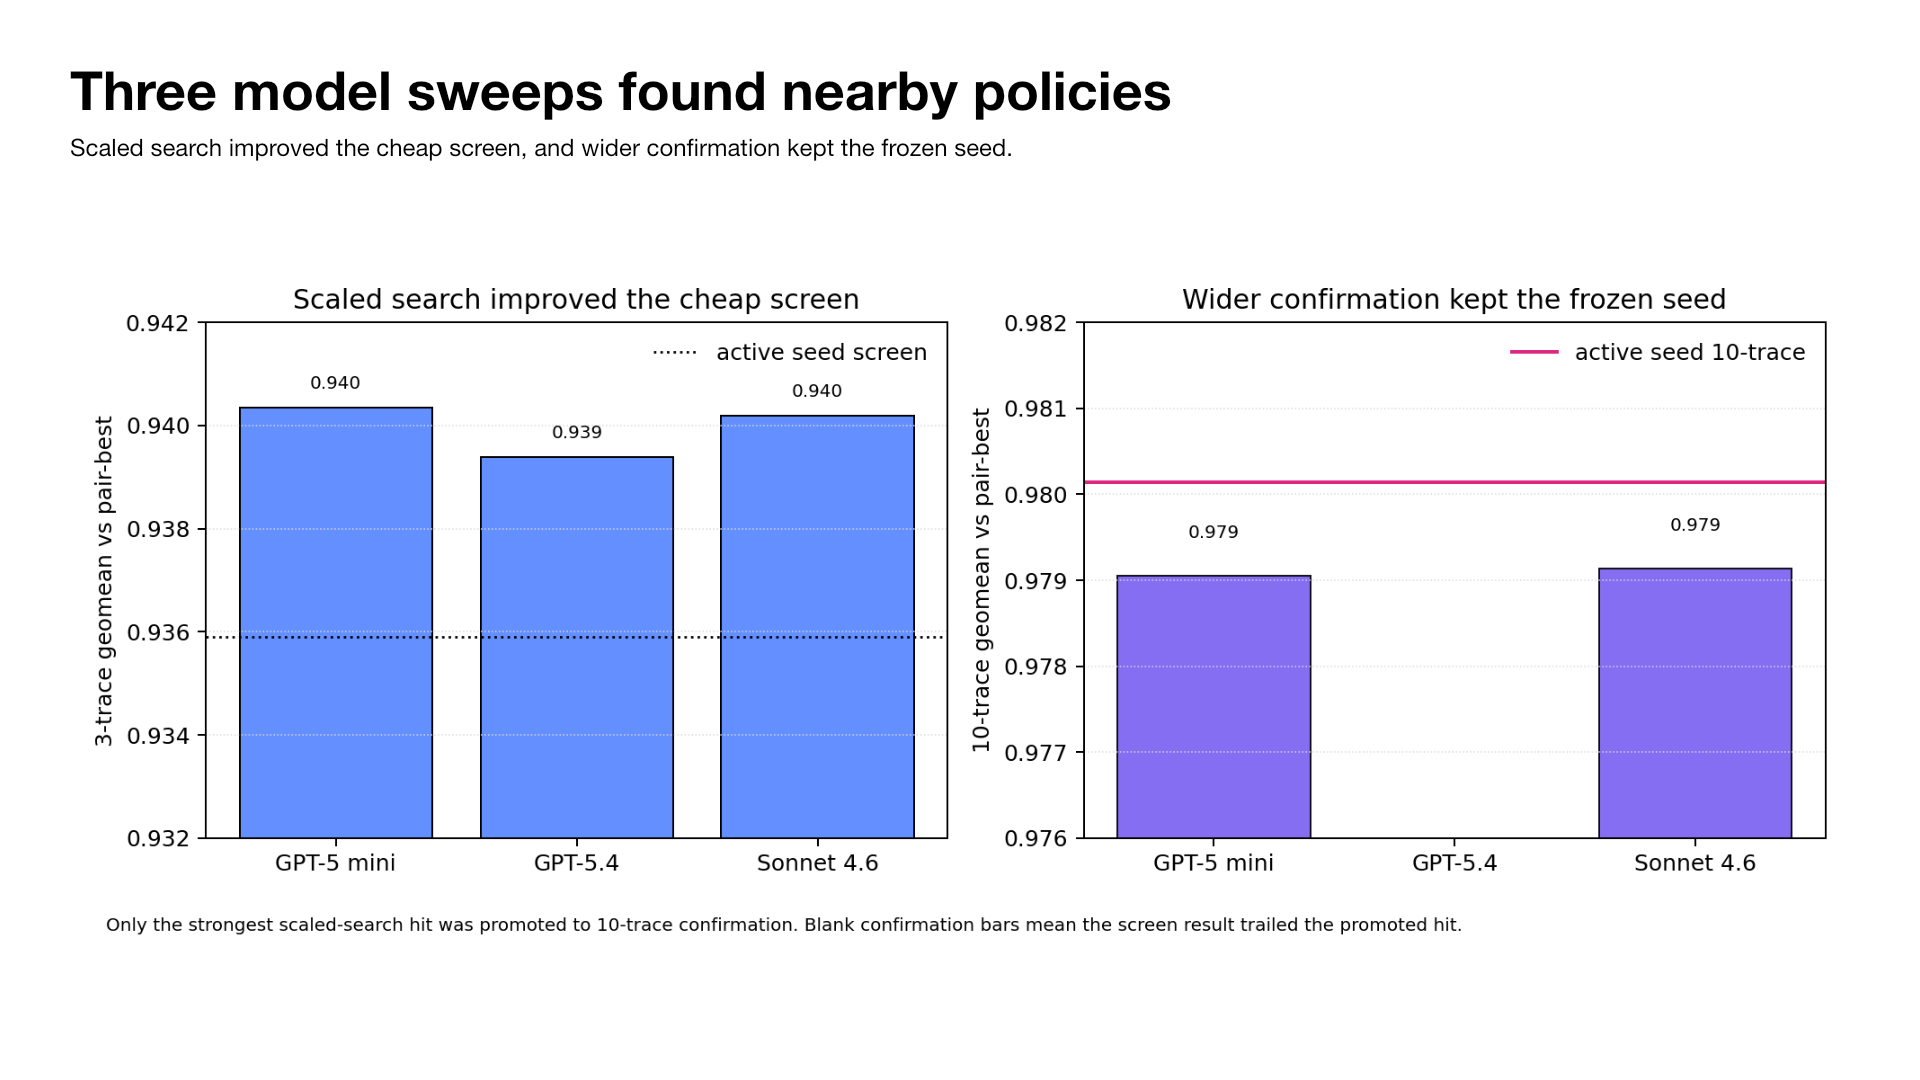
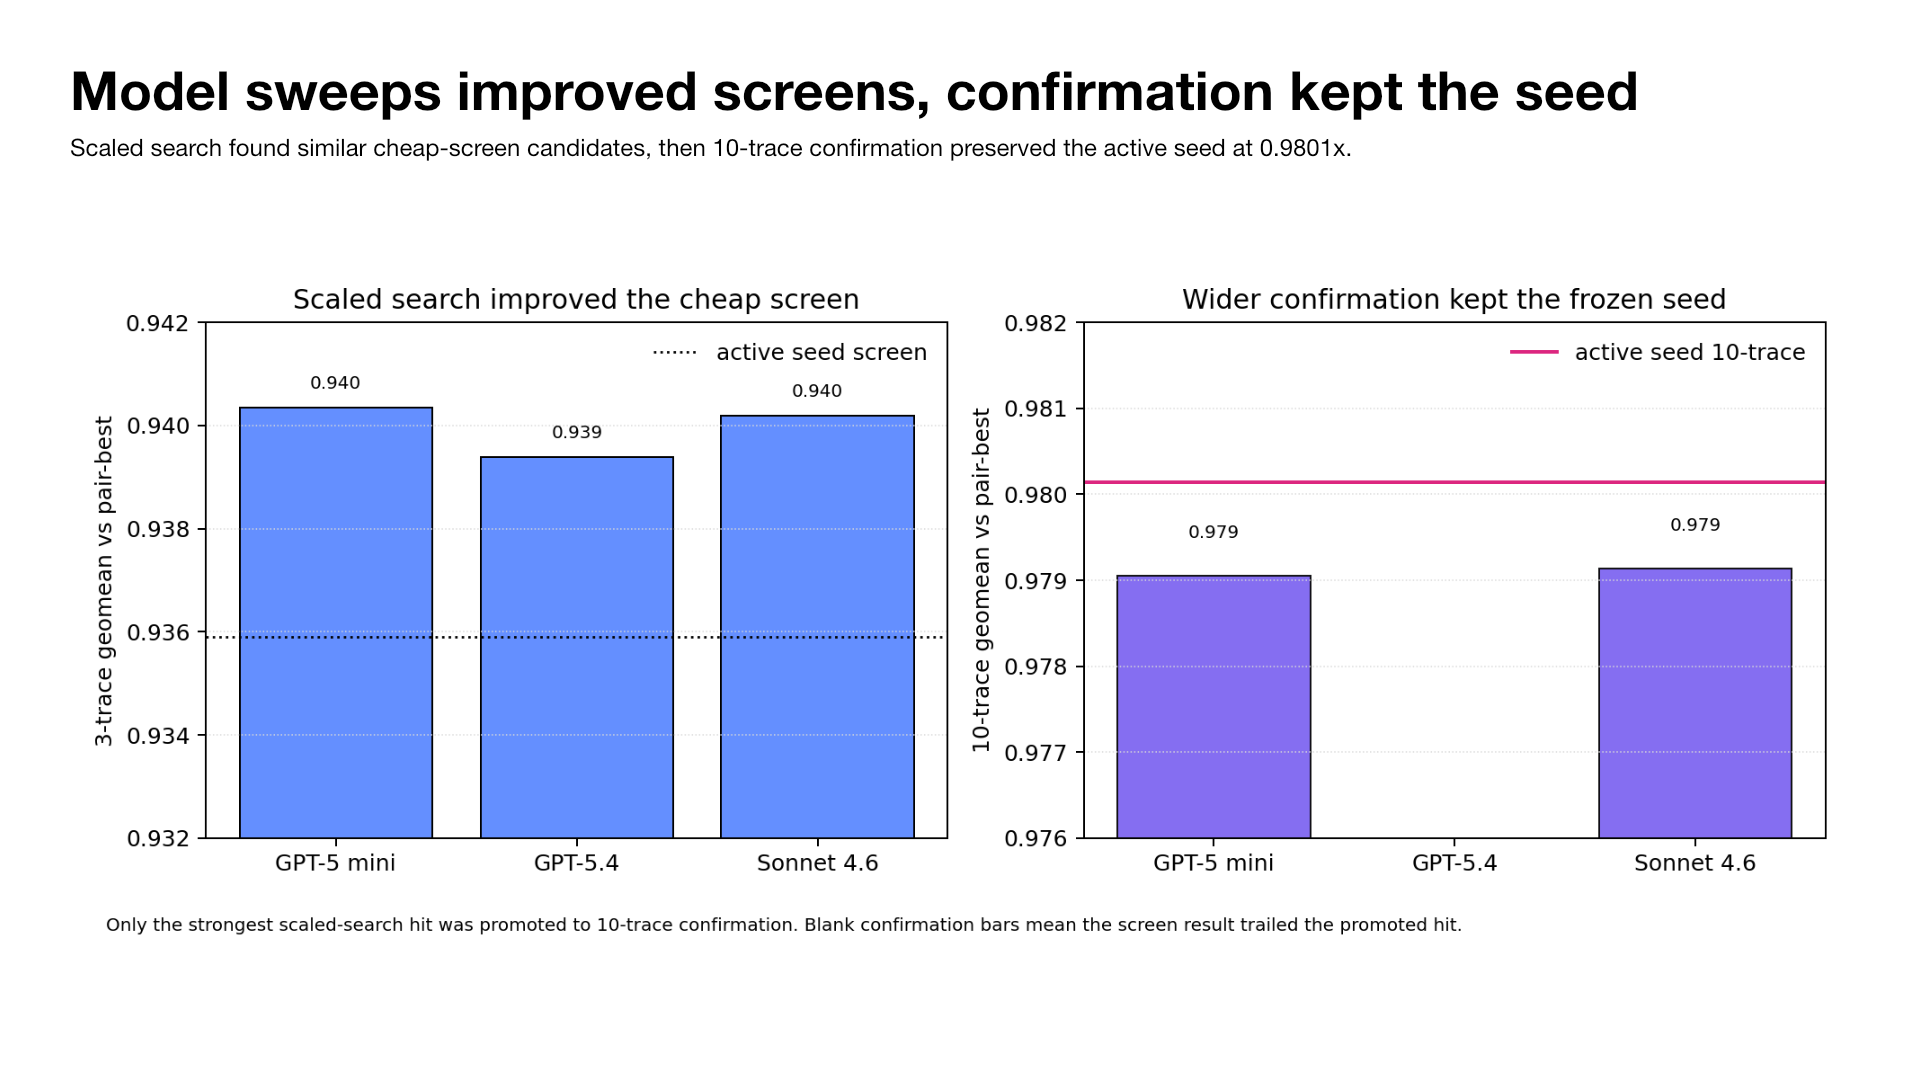
Polish Stage 2 professor-facing report

Changed region(s): [[0.0312, 0.0611, 0.875, 0.1528]]

diff --git a/scripts/make_stage2_final_assets.py b/scripts/make_stage2_final_assets.py
@@ -187,6 +187,12 @@ def ledger_record_for_hash(ledger_path: Path, code_hash: str, stage: str) -> dic
     return matches[-1]
 
 
+def required_ledger_record_for_hash(ledger_path: Path, code_hash: str, stage: str) -> dict:
+    record = ledger_record_for_hash(ledger_path, code_hash, stage)
+    assert record is not None, f"Missing {stage} record for {code_hash} in {ledger_path}"
+    return record
+
+
 def ledger_record_for_metrics(ledger_path: Path, metrics: dict, stage: str) -> dict | None:
     records = [json.loads(line) for line in ledger_path.read_text().splitlines() if line.strip()]
     candidates = [r for r in records if r.get("stage") == stage and r.get("metrics", {}).get("stage_passed") == 1.0]
@@ -431,7 +437,12 @@ def plot_model_comparison(ledger_path: Path, out_path: Path) -> None:
     plt.close(fig)
 
 
-def plot_scale_model_comparison(rows: list[dict[str, str]], out_path: Path) -> None:
+def plot_scale_model_comparison(
+    rows: list[dict[str, str]],
+    out_path: Path,
+    active_screen_pair_best: float,
+    active_confirm_pair_best: float,
+) -> None:
     setup_plot()
     labels = [row["model"] for row in rows]
     screen = [float(row["screen_gm_vs_pair_best"]) for row in rows]
@@ -439,11 +450,10 @@ def plot_scale_model_comparison(rows: list[dict[str, str]], out_path: Path) -> N
         float(row["confirmed_10_trace_pair_best"]) if row["confirmed_10_trace_pair_best"] else float("nan")
         for row in rows
     ]
-    active_stage2 = 0.9801372167719825
     fig, axes = plt.subplots(1, 2, figsize=(11, 4.2))
     x = list(range(len(labels)))
     axes[0].bar(x, screen, color=COLORS["blue"], edgecolor=COLORS["black"], linewidth=0.8)
-    axes[0].axhline(0.9358978060739194, color=COLORS["black"], linestyle=":", linewidth=1.1, label="active seed screen")
+    axes[0].axhline(active_screen_pair_best, color=COLORS["black"], linestyle=":", linewidth=1.1, label="active seed screen")
     axes[0].set_title("Scaled search improved the cheap screen")
     axes[0].set_ylabel("3-trace geomean vs pair-best")
     axes[0].set_ylim(0.932, 0.942)
@@ -461,7 +471,7 @@ def plot_scale_model_comparison(rows: list[dict[str, str]], out_path: Path) -> N
         )
         if not math.isnan(value):
             axes[1].text(xi, value + 0.0004, f"{value:.3f}", ha="center", va="bottom", fontsize=8)
-    axes[1].axhline(active_stage2, color=COLORS["pink"], linewidth=1.6, label="active seed 10-trace")
+    axes[1].axhline(active_confirm_pair_best, color=COLORS["pink"], linewidth=1.6, label="active seed 10-trace")
     axes[1].set_title("Wider confirmation kept the frozen seed")
     axes[1].set_ylabel("10-trace geomean vs pair-best")
     axes[1].set_ylim(0.976, 0.982)
@@ -514,7 +524,14 @@ def main() -> int:
     plot_pre_post(rows, args.figures_dir / "stage2_pre_post_geomean.png")
     plot_heldout_trace_profile(args.heldout_v13, args.figures_dir / "stage2_heldout_trace_profile.png")
     plot_model_comparison(args.model_ledger, args.figures_dir / "stage2_model_comparison.png")
-    plot_scale_model_comparison(scale_rows, args.figures_dir / "stage2_scale_model_comparison.png")
+    active_screen = required_ledger_record_for_hash(args.candidate_ledger, "a52ed8a4151ad6cc", "stage1")
+    active_confirm = required_ledger_record_for_hash(args.candidate_ledger, "a52ed8a4151ad6cc", "stage2")
+    plot_scale_model_comparison(
+        scale_rows,
+        args.figures_dir / "stage2_scale_model_comparison.png",
+        float(active_screen["metrics"]["gm_vs_pair_best"]),
+        float(active_confirm["metrics"]["gm_vs_pair_best"]),
+    )
     return 0
 
 

diff --git a/report/stage2_final_report.md b/report/stage2_final_report.md
@@ -2,15 +2,15 @@
 
 ## Executive Read
 
-We built a compact Mixture-of-Prefetchers coordinator on top of Athena's L2C prefetcher infrastructure, then used OpenEvolve to search a tiny policy surface. The selected story is `MLOP + SPP+PPF` at L2C, with `MoP-V1.3` as the evolved sticky-single router.
+We built a compact Mixture-of-Prefetchers coordinator on top of Athena's L2C prefetcher infrastructure, then used OpenEvolve to search a tiny policy surface. The selected story is `MLOP + SPP+PPF` at L2C, with `MoP-V1.3` as the evolved sticky-single router. The work beyond Athena is the routing layer, the train/heldout protocol, the OpenEvolve policy sandbox, the candidate ledger, and the report pipeline that turns simulator artifacts into tables, plots, and a presentation deck.
 
 The strongest claim is train-window gap closing. On the 13-trace train-window confirmation surface, the pre-OpenEvolve `MoP-V1.2` reference reached `0.964637x` vs the pair-best single and `1.047685x` vs no-prefetch. The post-OpenEvolve `MoP-V1.3 sticky 3` seed reached `0.982884x` vs pair-best and `1.066243x` vs no-prefetch. It also beat the weaker expert on `11/13` traces, compared with `9/13` for `MoP-V1.2`, and reduced catastrophic traces from `3/13` to `2/13`.
 
-The heldout result is a modest generalization result. On seven heldout traces, `MoP-V1.3` reached `0.979437x` vs pair-best and `1.003270x` vs no-prefetch. `MoP-V1.2` reached `0.975893x` vs pair-best and `0.998069x` vs no-prefetch. The selected router clears no-prefetch on heldout and remains below the best constituent single, which is a fair outcome for this project because the main comparator hierarchy kept pair-best first.
+The heldout result is a modest generalization result. On seven heldout traces, `MoP-V1.3` reached `0.979437x` vs pair-best and `1.003270x` vs no-prefetch. `MoP-V1.2` reached `0.975893x` vs pair-best and `0.998069x` vs no-prefetch. The selected router clears no-prefetch on heldout and remains below the best constituent single, which is a fair outcome for this project because the main comparator hierarchy kept pair-best first. The trace-level story is mixed: `MoP-V1.3` improves the large `secret_compute_fp_105` tail loss from `0.8217x` to `0.8896x` vs pair-best, while its weaker-expert win count is `5/7` and its closer-to-better count is `3/7`.
 
 ## What We Built On Athena
 
-Athena provided the simulator, cache hierarchy, existing prefetchers, and the original `AthenaMAB` comparison point. Our contribution is the coordination layer and the evaluation harness around it.
+Athena provided the simulator, cache hierarchy, existing prefetchers, and the original `AthenaMAB` comparison point. Our contribution sits above that substrate: a router family that chooses or budgets constituent L2C prefetchers, epoch-level action and usefulness accounting, a fixed trace protocol, OpenEvolve candidate generation under a narrow policy API, and artifact tooling that makes the resulting claims auditable.
 
 We added router aliases and implementation paths for:
 
@@ -41,6 +41,8 @@ The important policy that survived confirmation is:
 
 Stage 1 selected L2C as the cache level and `MLOP + SPP+PPF` as the expert pair using train/search evidence. Heldout traces stayed reserved for final confirmation. The evidence set used the official split in `data/splits/official_v1.json`: 17 train traces and 7 heldout traces, with 10-trace and 13-trace train/search subsets for OpenEvolve confirmation.
 
+The `official_v1` split is the frozen trace split. Its original recommended-pair metadata predates the Stage 1 finish-screen decision. Stage 2 keeps the trace split fixed and uses the Stage 1 train/search choice of `MLOP + SPP+PPF`.
+
 The evaluation comparator hierarchy stayed fixed:
 
 | Comparator | Purpose |
@@ -50,9 +52,11 @@ The evaluation comparator hierarchy stayed fixed:
 | Weaker constituent single | Practical minimum for routing value |
 | WinnerTakeAll, OneShotFit, AthenaMAB | Simple coordination baselines |
 
-The trace choice supports the story because `MLOP` and `SPP+PPF` have different strengths, while both can still produce useful speedups on parts of the split. On heldout, `SPP+PPF` is the stronger single overall at `1.023725x` vs no-prefetch, while `MLOP` sits at `0.974379x`. The router lands between the routees on several traces and clears no-prefetch in geomean, which is exactly the balanced-take behavior we wanted to test.
+The trace choice supports the story because `MLOP` and `SPP+PPF` have different strengths, while both can still produce useful speedups on parts of the split. On heldout, `SPP+PPF` is the stronger single overall at `1.023725x` vs no-prefetch, while `MLOP` sits at `0.974379x`. The router's geomean lands between no-prefetch and the pair-best single, and the per-trace placement shows useful routing on some traces plus residual tail risk on `secret_compute_fp_105`.
 
 ## Pre-OpenEvolve And Post-OpenEvolve Performance
+
+![Pre/post geomean contrast](figures/stage2_pre_post_geomean.png)
 
 | Surface | Pre-OpenEvolve `MoP-V1.2` | Post-OpenEvolve `MoP-V1.3` | Read |
 | --- | ---: | ---: | --- |
@@ -73,6 +77,8 @@ The 13-trace train-window result also beats the simple coordination baselines:
 | `OneShotFit` | `0.943456` | `1.026820` | `6/13` | `5/13` |
 | `AthenaMAB` | `0.942077` | `1.021295` | `6/13` | `5/13` |
 
+These coordination-baseline comparisons are train-window checks. Heldout confirmation focuses on the frozen pre/post routers and the constituent singles.
+
 Raw ledger excerpt for the selected train-window contrast:
 
 ```json
@@ -85,7 +91,44 @@ Raw ledger excerpt for the selected train-window contrast:
 
 ## OpenEvolve Model Scaling
 
-We used small smoke runs first, then scaled with `gpt-5-mini`, `gpt-5.4`, and Claude Sonnet 4.6. Kimi models were absent from the gateway model list for this key, so the expanded comparison used the strongest available gateway models. The largest sweep was the 80-iteration GPT-5 mini run, with 30-iteration sweeps for GPT-5.4 and Sonnet 4.6.
+![Scaled model comparison](figures/stage2_scale_model_comparison.png)
+
+We used small smoke runs first, then scaled with `gpt-5-mini`, `gpt-5.4`, and Claude Sonnet 4.6. A gateway model probe on April 29, 2026 found GPT-5 and Anthropic models available for this key, while Kimi models were absent from that response. The largest sweep was the 80-iteration GPT-5 mini run, with 30-iteration sweeps for GPT-5.4 and Sonnet 4.6. The committed configs keep `max_iterations: 1` as a cheap default, and the actual scale runs used explicit CLI overrides:
+
+```bash
+PYTHONPATH=external/openevolve STAGE2_EVAL_STAGE=stage1 \
+  python3 external/openevolve/openevolve-run.py \
+  stage2/openevolve/initial_policy.py stage2/openevolve/evaluator.py \
+  --config stage2/openevolve/config_scale_gpt5mini.yaml \
+  --output results/stage2_openevolve/scale/gpt5mini_stage1_iter80_20260430 \
+  --iterations 80
+```
+
+```bash
+PYTHONPATH=external/openevolve STAGE2_EVAL_STAGE=stage1 \
+  python3 external/openevolve/openevolve-run.py \
+  stage2/openevolve/initial_policy.py stage2/openevolve/evaluator.py \
+  --config stage2/openevolve/config_scale_gpt54.yaml \
+  --output results/stage2_openevolve/scale/gpt54_stage1_iter30_20260430 \
+  --iterations 30
+```
+
+```bash
+PYTHONPATH=external/openevolve STAGE2_EVAL_STAGE=stage1 \
+  python3 external/openevolve/openevolve-run.py \
+  stage2/openevolve/initial_policy.py stage2/openevolve/evaluator.py \
+  --config stage2/openevolve/config_scale_claude_sonnet46.yaml \
+  --output results/stage2_openevolve/scale/claude_sonnet46_stage1_iter30_20260430 \
+  --iterations 30
+```
+
+The local logs record:
+
+```text
+gpt5mini: Starting process-based evolution from iteration 1 for 80 iterations (total: 81)
+gpt54: Starting process-based evolution from iteration 1 for 30 iterations (total: 31)
+sonnet46: Starting process-based evolution from iteration 1 for 30 iterations (total: 31)
+```
 
 | Model | Best cheap-screen result | 10-trace confirmation |
 | --- | ---: | ---: |
@@ -95,13 +138,35 @@ We used small smoke runs first, then scaled with `gpt-5-mini`, `gpt-5.4`, and Cl
 
 The scaled model search found nearby policies with slightly stronger cheap-screen scores, especially Sonnet 4.6. Wider confirmation kept the frozen `MoP-V1.3 sticky 3` seed because its 10-trace result remained stronger at `0.980137x` vs pair-best and combined `0.001776`.
 
+Selection used confirmation status plus cheap-screen rank. A higher 10-trace hit, `53e5b8b728c0a657`, reached `0.982001x` vs pair-best and combined `0.004400`, then failed 13-trace confirmation. The frozen `a52ed8a4151ad6cc` seed reached `0.980137x` on the 10-trace surface and `0.982884x` on the 13-trace train-window confirmation surface.
+
 The malformed and failed candidates are useful evidence about evaluator rigor. The ledger includes command failures from simulator `SIGBUS`, rejected helper/import code, unknown policy keys such as `both_on_rate`, `single_action_rate`, `mop_budget_ratio`, and `mop_budget_multiplier`, and missing evolve markers. These candidates were scored as failed and kept in the ledger.
 
 ## Heldout Handling
 
+![Heldout trace profile](figures/stage2_heldout_trace_profile.png)
+
 The `MoP-V1.3` heldout run completed normally in `results/stage2_openevolve/heldout/final_v13_20260429`. The matching `MoP-V1.2` reference completed all 28 raw metric files in `results/stage2_openevolve/heldout/final_v12_reference_20260429`, while the runner exited before writing the full roll-up. I rebuilt its `summary.csv` from the 28 raw metric JSON files using `scripts/rebuild_mop_summary_from_metrics.py`, which calls the same parser and summary writer used by the normal runner. The provenance file is `results/stage2_openevolve/heldout/final_v12_reference_20260429/summary_rebuild_provenance.json`.
 
 That reconstruction changes no metrics. It supplies the missing table layer from complete raw simulator outputs.
+
+Rebuild command:
+
+```bash
+python3 scripts/rebuild_mop_summary_from_metrics.py \
+  --results-dir results/stage2_openevolve/heldout/final_v12_reference_20260429 \
+  --expert-0 MLOP \
+  --expert-1 SPP+PPF \
+  --expected-runs 28
+```
+
+Validation excerpt:
+
+```json
+{"metric_files": 28, "source": "rebuild_mop_summary_from_metrics.py", "traces": ["437.leslie3d-134B", "459.GemsFDTD-1169B", "471.omnetpp-188B", "ligra_BC.com-lj.ungraph.gcc_6.3.0_O3.drop_500M.length_250M", "parsec_2.1.canneal.simlarge.prebuilt.drop_4750M.length_250M", "parsec_2.1.streamcluster.simlarge.prebuilt.drop_0M.length_250M", "secret_compute_fp_105"]}
+```
+
+The reconstructed V1.2 heldout `summary.csv` has SHA-256 prefix `9660fd425d4b5dc4`. The normal V1.3 heldout `summary.csv` has SHA-256 prefix `579caecda79b4cae`. The generated final metric table has SHA-256 prefix `d49332f21ba00979`.
 
 ## Claims We Can Defend
 
@@ -115,6 +180,8 @@ That reconstruction changes no metrics. It supplies the missing table layer from
 The most likely reviewer concern is selection leakage. The trace protocol answers it directly: Stage 1 selected the cache level and pair on train/search evidence, Stage 2 searched only train/search surfaces, and heldout was used after the seed was fixed. The next concern is whether OpenEvolve merely found a fragile number tweak. The evaluator answers that by constraining candidates to a small literal policy dictionary, logging every candidate, and scoring malformed or simulator-failed candidates as failures. The final concern is whether the router beats the best possible routee. Our claim is deliberately narrower: the evolved router closes much of the train-window pair-best gap, clears no-prefetch on heldout, and gives a balanced combined behavior for two routees with different strengths.
 
 ## Artifacts
+
+Reproducibility surface: this commit contains the report tables, figures, OpenEvolve ledgers, slide deck, slide previews, and slide quality report. Raw simulator outputs live under ignored `results/stage2_openevolve/...` paths on the producing machine. The committed ledgers are the stable audit layer for candidate outcomes, and the ignored raw result directories are the simulator evidence layer used to rebuild summaries and figures.
 
 | Artifact | Path |
 | --- | --- |
@@ -130,3 +197,9 @@ The most likely reviewer concern is selection leakage. The trace protocol answer
 | Slide deck | `slides/mop_stage2_final/output/output.pptx` |
 | Slide deck previews | `slides/mop_stage2_final/scratch/slide-01.png` through `slide-08.png` |
 | Slide deck quality report | `slides/mop_stage2_final/scratch/quality-report.json` |
+
+| Claim | Rebuild command | Primary artifact | Validation evidence |
+| --- | --- | --- | --- |
+| Final metric table and figures | `python3 scripts/make_stage2_final_assets.py --heldout-v12 results/stage2_openevolve/heldout/final_v12_reference_20260429 --heldout-v13 results/stage2_openevolve/heldout/final_v13_20260429` | `report/tables/stage2_final_metrics.md` | 28 heldout V1.2 metric JSON files, 28 heldout V1.3 metric JSON files |
+| V1.2 heldout summary rebuild | `python3 scripts/rebuild_mop_summary_from_metrics.py --results-dir results/stage2_openevolve/heldout/final_v12_reference_20260429 --expert-0 MLOP --expert-1 SPP+PPF --expected-runs 28` | `summary_rebuild_provenance.json` | `metric_files: 28`, seven listed heldout traces |
+| Scaled GPT-5 mini run | OpenEvolve launch with `--config stage2/openevolve/config_scale_gpt5mini.yaml --iterations 80` | `results/stage2_openevolve/scale/gpt5mini_stage1_iter80_20260430` | checkpoint 80 log line and `stage2_scale_model_summary.md` |
